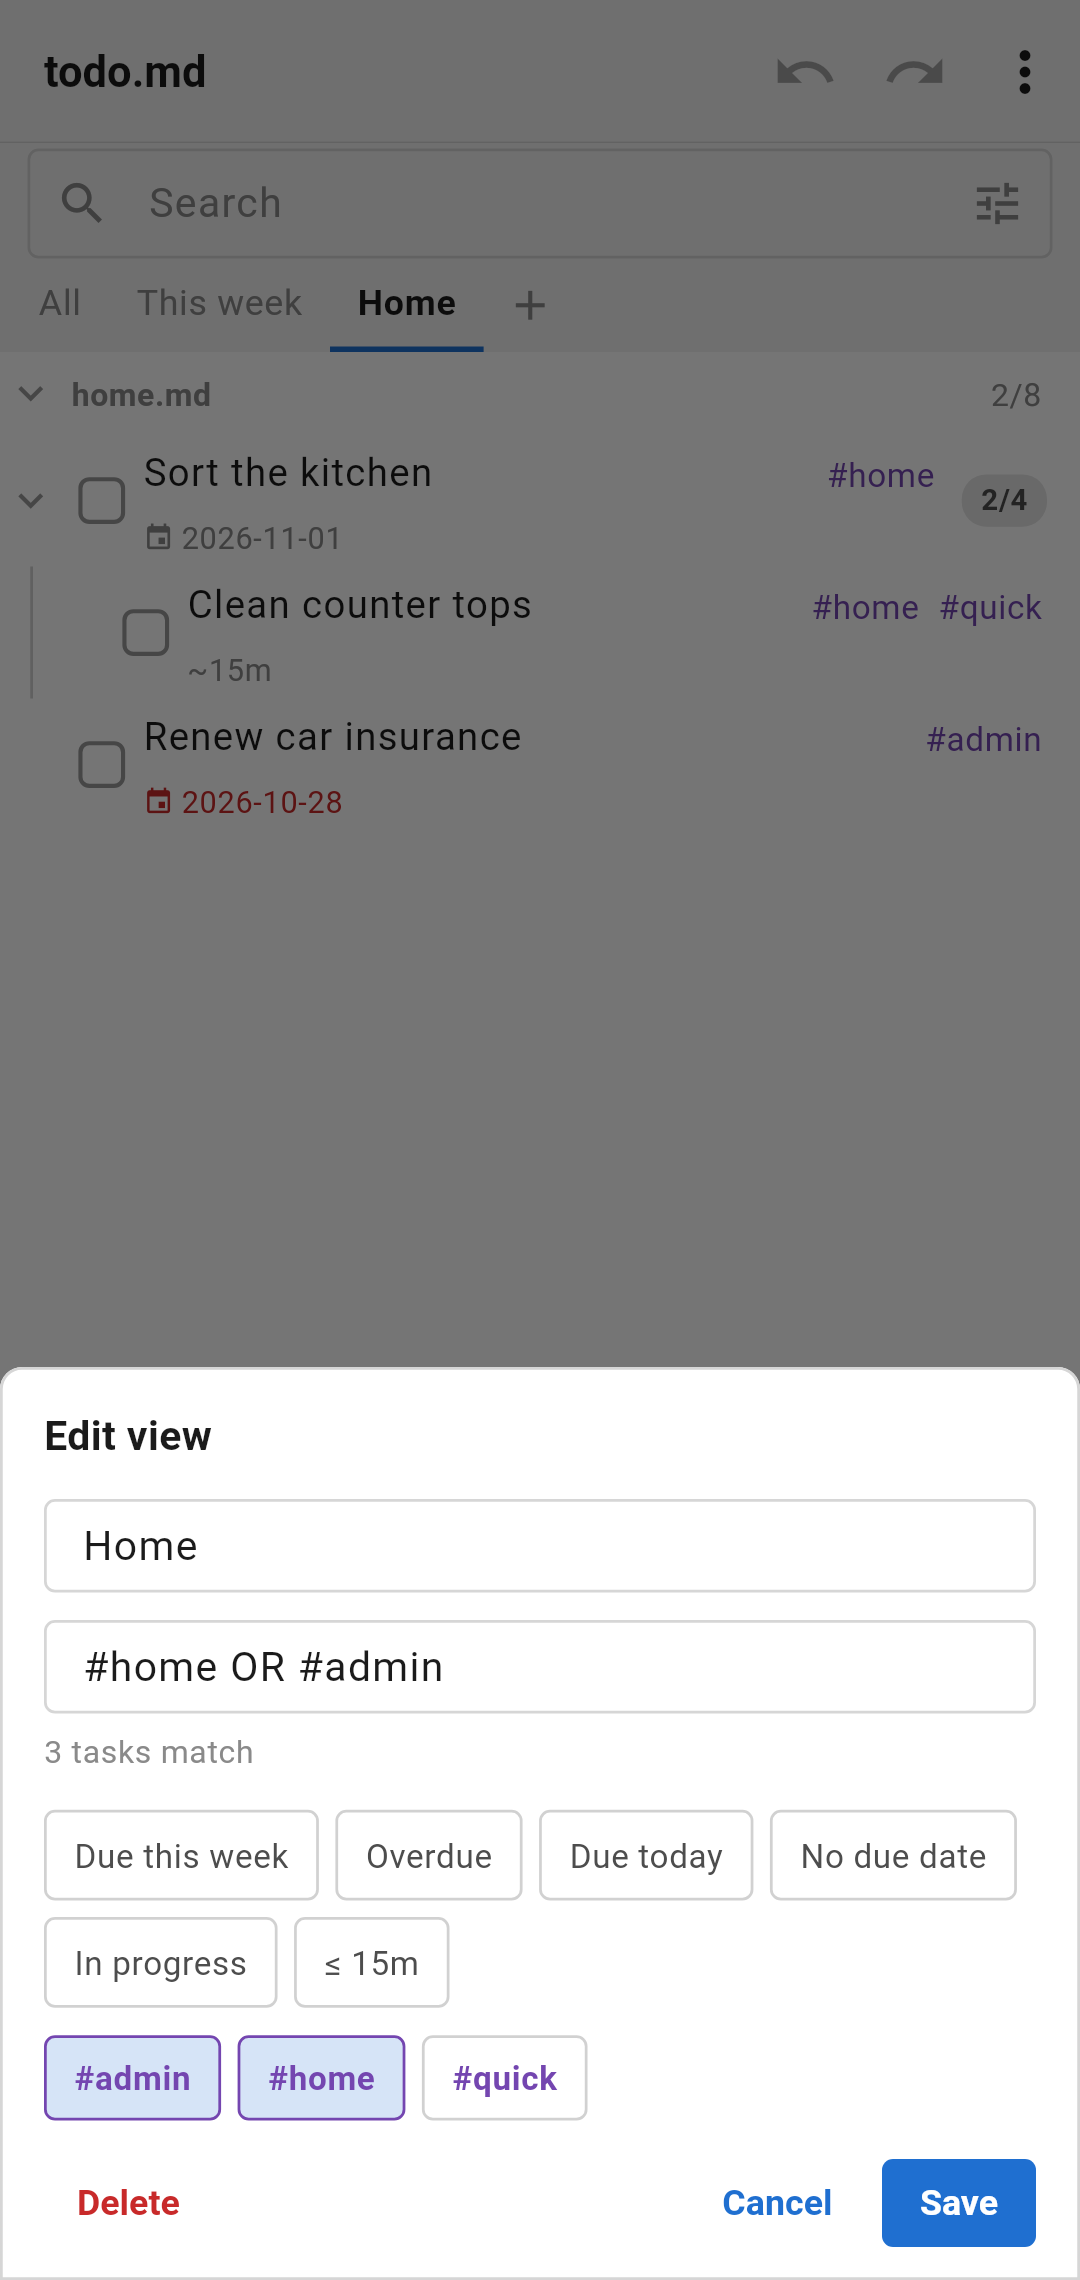
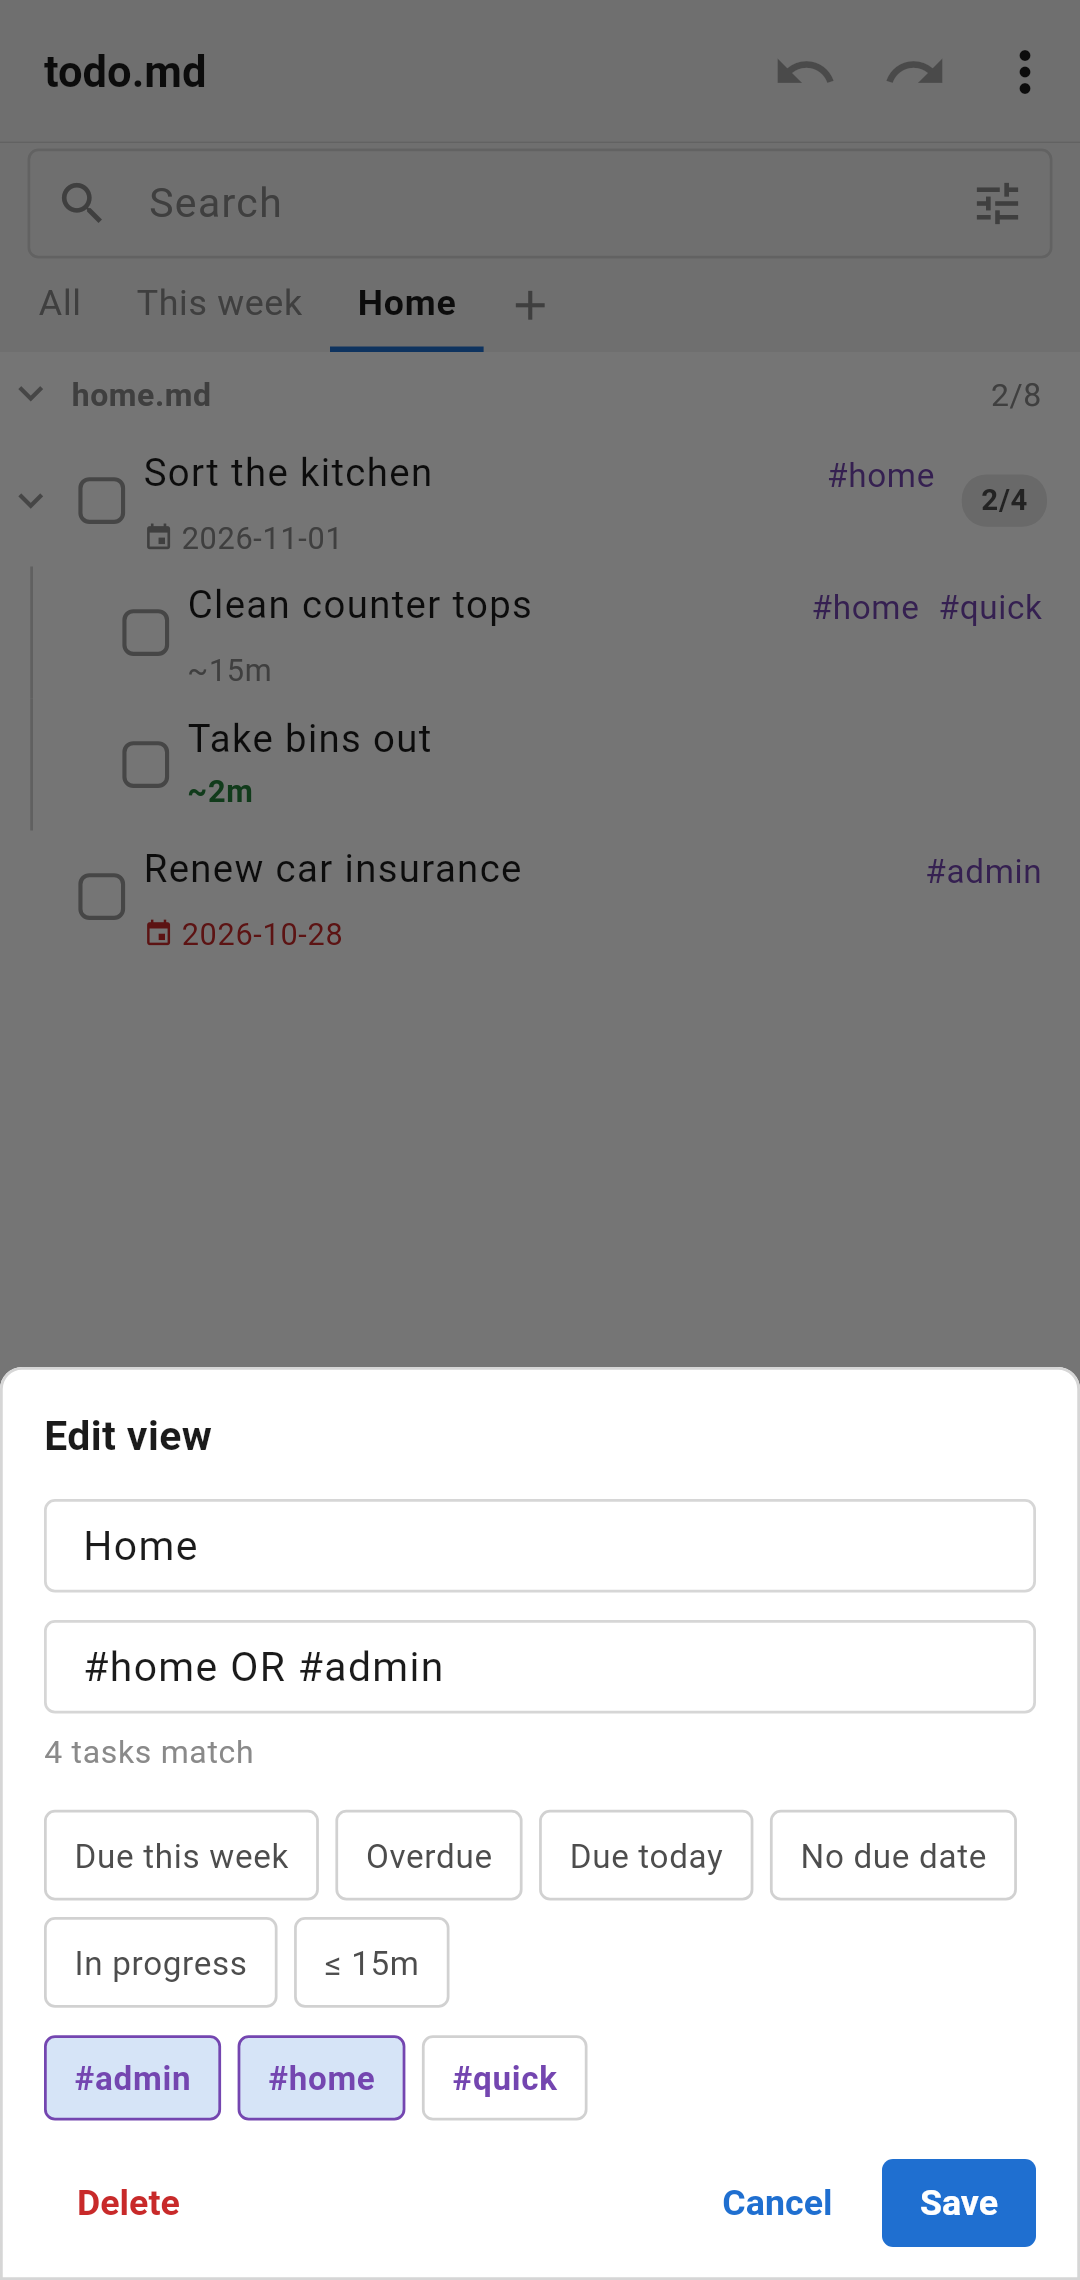
Fix subtasks not appearing in parent with certain tags

diff --git a/lib/core/models.dart b/lib/core/models.dart
@@ -127,8 +127,21 @@ abstract class FlatModel extends ChangeNotifier {
 
   // Appends t and its visible descendants (unless `hidden`, under a collapsed
   // node, where only visibility is computed). Returns whether t is visible:
-  // it matches or has a visible descendant.
-  bool _appendTask(Task t, int g, int depth, bool hidden, List<ListRow> out) {
+  // it matches, sits under a task that matches (`under`; its state must still
+  // be shown), or has a visible descendant. So a view of #house shows the
+  // subtasks of a #house task even though they don't carry the tag.
+  //
+  // `inView`: an ancestor matches the view's filter, which then holds for t
+  // too, so the search box can find untagged subtasks within a #house view.
+  bool _appendTask(
+    Task t,
+    int g,
+    int depth,
+    bool hidden,
+    List<ListRow> out, [
+    bool under = false,
+    bool inView = false,
+  ]) {
     if (_all) {
       if (hidden) return true;
       final kids = t.children.isNotEmpty;
@@ -144,11 +157,13 @@ abstract class FlatModel extends ChangeNotifier {
     final mark = out.length;
     if (!hidden) out.add(ListRow(t, g, depth, false, true));
     final open = t.children.isEmpty || !_isCollapsed(taskKey(t));
+    final viewed = inView || filter.viewMatches(t);
+    final shown = (under && filter.stateVisible(t.state)) || filter.matches(t, inView: viewed);
     var anyChild = false;
     for (final c in t.children) {
-      anyChild |= _appendTask(c, g, depth + 1, hidden || !open, out);
+      anyChild |= _appendTask(c, g, depth + 1, hidden || !open, out, shown, viewed);
     }
-    if (!anyChild && !filter.matches(t)) {
+    if (!anyChild && !shown) {
       if (!hidden) out.length = mark;
       return false;
     }

diff --git a/test/store_test.dart b/test/store_test.dart
@@ -185,6 +185,48 @@ void main() {
     s.dispose();
   });
 
+  test('list model: subtasks of a matching task show (their state still filtered)', () async {
+    write(
+      't.md',
+      '- [ ] Get building insurance #house\n'
+          '  - [ ] get quotes\n'
+          '    - [ ] ring brokers\n'
+          '  - [x] find policy number\n'
+          '  - [ ] pay #money\n'
+          '- [ ] other\n'
+          '  - [ ] sub\n',
+    );
+    final s = TaskStore();
+    s.watching = false;
+    await s.setRoots([tmp.path]);
+    final m = TaskListModel(s);
+    m.filter.states = 0x3; // done hidden
+    List<String?> shown() => [for (final r in m.rows) r.task?.text];
+
+    m.filter.setView('#house');
+    m.refilter();
+    expect(shown(), [null, 'Get building insurance', 'get quotes', 'ring brokers', 'pay']);
+    expect(m.rows[1].hasChildren, isTrue);
+    // The search box narrows within the view (finding untagged subtasks); a
+    // match still brings its subtasks.
+    m.filter.setText('quotes');
+    m.refilter();
+    expect(shown(), [null, 'Get building insurance', 'get quotes', 'ring brokers']);
+    // A match deeper down keeps its ancestors but not their other subtasks.
+    m.filter.setView('');
+    m.filter.setText('#money');
+    m.refilter();
+    expect(shown(), [null, 'Get building insurance', 'pay']);
+    // Done ones show once the Done toggle is on.
+    m.filter.setText('');
+    m.filter.setView('#house');
+    m.filter.states = 0xF;
+    m.refilter();
+    expect(shown(), contains('find policy number'));
+    m.dispose();
+    s.dispose();
+  });
+
   test('agenda: days, nesting under same-day ancestor, empty days, labels', () async {
     write(
       't.md',

diff --git a/lib/ui/home.dart b/lib/ui/home.dart
@@ -325,13 +325,21 @@ class HomePageState extends State<HomePage> with WidgetsBindingObserver {
   }
 
   int _countMatching(String filter) {
+    // As the list shows it: a task is in the view if it or an ancestor matches.
     final f = TaskFilter()
       ..states = list.filter.states
-      ..setText(filter);
+      ..setView(filter);
+    bool ancestorIn(Task t) {
+      for (var a = t.parent; a != null; a = a.parent) {
+        if (f.viewMatches(a)) return true;
+      }
+      return false;
+    }
+
     var n = 0;
     for (final file in store.files) {
       for (final t in file.tasks) {
-        if (f.matches(t)) n++;
+        if (f.matches(t, inView: ancestorIn(t))) n++;
       }
     }
     return n;
@@ -983,7 +991,6 @@ class HomePageState extends State<HomePage> with WidgetsBindingObserver {
           onTapTask: _openTask,
           onToggle: toggleTask,
           onTag: filterTag,
-          onRefresh: store.refresh,
           empty: store.loading ? const SizedBox() : empty('No tasks yet. Tap + to add one.'),
         );
       case 1:
@@ -997,7 +1004,6 @@ class HomePageState extends State<HomePage> with WidgetsBindingObserver {
           onTapTask: _openTask,
           onToggle: toggleTask,
           onTag: filterTag,
-          onRefresh: store.refresh,
           empty: store.loading ? const SizedBox() : empty('Nothing due. Tasks with !YYYY-MM-DD show here.'),
         );
       default:

diff --git a/lib/ui/task_list.dart b/lib/ui/task_list.dart
@@ -40,7 +40,6 @@ class TaskListView extends StatefulWidget {
     required this.onTapTask,
     required this.onToggle,
     this.onHeaderLongPress,
-    this.onRefresh,
     this.controller,
     this.allowSelection = true,
     this.empty,
@@ -58,7 +57,6 @@ class TaskListView extends StatefulWidget {
   final ValueChanged<Task> onToggle;
   final ValueChanged<String>? onTag; // tapping a tag
   final ValueChanged<int>? onHeaderLongPress; // row index
-  final Future<void> Function()? onRefresh;
   final ScrollController? controller;
   final bool allowSelection;
   final Widget? empty;
@@ -226,7 +224,7 @@ class _TaskListViewState extends State<TaskListView> {
               child: SizedBox(height: c.maxHeight, child: widget.empty),
             ),
           );
-          return widget.onRefresh == null ? child : RefreshIndicator(onRefresh: widget.onRefresh!, child: child);
+          return child;
         }
         Widget list = CustomScrollView(
           key: _listKey,
@@ -247,7 +245,6 @@ class _TaskListViewState extends State<TaskListView> {
           onLongPressCancel: _onLongPressEnd,
           child: list,
         );
-        if (widget.onRefresh != null) list = RefreshIndicator(onRefresh: widget.onRefresh!, child: list);
         return list;
       },
     );

diff --git a/test/app_test.dart b/test/app_test.dart
@@ -249,6 +249,15 @@ void main() {
     await tester.pumpAndSettle();
     expect(contents(), initial);
     expect(find.byKey(const ValueKey('due-Tomorrow')), findsNothing); // no due picker
+    // And no pull-to-refresh: dragging down at the top does nothing.
+    final g = await tester.startGesture(tester.getCenter(rowText('a')));
+    for (var i = 0; i < 10; i++) {
+      await g.moveBy(const Offset(0, 25));
+      await tester.pump(const Duration(milliseconds: 16));
+    }
+    expect(find.byType(RefreshProgressIndicator), findsNothing);
+    await g.up();
+    await tester.pumpAndSettle();
   });
 
   testWidgets('search box, and the filter sheet\'s states and ETA preset, narrow the list', (tester) async {
@@ -501,7 +510,7 @@ void main() {
     await g.up();
     await tester.pumpAndSettle();
     expect(home.view?.name, 'Media');
-    // A sideways swipe that drifts down a little is still a swipe, not a pull to refresh.
+    // A sideways swipe that drifts down a little is still a swipe.
     await tester.timedDrag(rowText('song'), const Offset(-300, 60), const Duration(milliseconds: 900));
     await tester.pumpAndSettle();
     expect(home.view?.name, 'Week');

diff --git a/lib/ui/help_page.dart b/lib/ui/help_page.dart
@@ -16,7 +16,7 @@ const _sections = <(IconData, String, List<String>)>[
           '`[x]` done,  `[-]` cancelled.',
       'Indent a task under another to make it a subtask. A parent shows how many of its subtasks are done, e.g. `2/4`.',
       'Edit your notes in any app (Obsidian, Markor, a sync tool …). Changes show up here when you come back, '
-          'or pull the list down to refresh.',
+          'or straight away while the app is open. ⋮ → Reload reads everything again.',
     ],
   ),
   (
@@ -64,7 +64,8 @@ const _sections = <(IconData, String, List<String>)>[
     Icons.search,
     'Searching and filtering',
     [
-      'Type in the search box to show only matching tasks. Several words must all match.',
+      'Type in the search box to show only matching tasks. Several words must all match. A task that matches '
+          'brings its subtasks along, and its parents stay for context.',
       'Special terms filter by tag, due date, estimate or state, e.g. `#home`,  `due:today`,  `~<=15m`,  `is:doing`,  '
           '`done:today`. '
           'Put `OR` between terms for "any of these". The full list, with examples you can tap to try, is under '

diff --git a/lib/core/filter.dart b/lib/core/filter.dart
@@ -255,13 +255,18 @@ class TaskFilter {
   bool get _hasDone => _search.any((c) => c.doneWithin > 0) || _view.any((c) => c.doneWithin > 0);
   bool _done = false; // cached _hasDone
 
-  bool matches(Task t) {
+  /// The view's filter alone holds for [t] (true when there's no view).
+  bool viewMatches(Task t) => _any(_view, t, _today);
+
+  /// [inView]: an ancestor matches the view, so [t] is in it too (a #house
+  /// task's subtasks belong to the #house view without the tag).
+  bool matches(Task t, {bool inView = false}) {
     final visible = states & stateBit(t.state) != 0;
     if (!visible && !_done) return false;
     for (final c in _presetConds) {
       if (!c.holds(t.eta)) return false;
     }
-    if (!_any(_view, t, _today) || !_any(_search, t, _today)) return false;
+    if ((!inView && !_any(_view, t, _today)) || !_any(_search, t, _today)) return false;
     return visible || _anyDone(_search, t, _today) || _anyDone(_view, t, _today);
   }
 }

diff --git a/lib/ui/views.dart b/lib/ui/views.dart
@@ -221,8 +221,9 @@ class _ViewSwiperState extends State<ViewSwiper> with SingleTickerProviderStateM
 /// A horizontal drag that wins at the usual slop, but only while the finger
 /// has gone further across than up or down. The list's vertical scroll uses
 /// the same slop, so whichever direction the finger mostly goes wins: a
-/// sideways swipe with some drift isn't taken for a scroll (or a pull to
-/// refresh), and a scroll with some drift isn't taken for a swipe.
+/// sideways swipe with some drift isn't taken for a scroll, and a scroll with
+/// some drift isn't taken for a swipe. (There's no pull-to-refresh to catch
+/// a swipe that starts slightly downward at the top.)
 class _SwipeRecognizer extends HorizontalDragGestureRecognizer {
   _SwipeRecognizer({super.debugOwner});
 

diff --git a/lib/core/store.dart b/lib/core/store.dart
@@ -287,7 +287,7 @@ class TaskStore extends ChangeNotifier {
   Future<void> reload() => setRoots(_roots);
 
   /// Incremental: re-reads only files whose mtime or size changed, picks up
-  /// new and removed files. Used on app resume and pull-to-refresh.
+  /// new and removed files. Used on app resume.
   Future<void> refresh() async {
     if (_loading || _roots.isEmpty) return;
     final gen = _generation;

diff --git a/CLAUDE.md b/CLAUDE.md
@@ -12,7 +12,7 @@ app's own folder). Linux desktop is enabled for development only.
 ## Build / run / test
 
 ```sh
-flutter test                          # core, store/models, widget tests (50)
+flutter test                          # core, store/models, widget tests (51)
 flutter analyze
 flutter test benchmark/               # 200k tasks / 5,000 files, JIT timings
 BENCH_DIR=~/notes flutter test benchmark/
@@ -70,7 +70,8 @@ search box is debounced 150 ms.
 - **Watching**: Dart can't watch recursively on Linux/Android, so each directory
   gets its own watch (max 4000), as on the desktop. Watches are dropped when the
   app is paused and `refresh()` (mtime/size diff, isolate scan) catches up on
-  resume. Pull-to-refresh calls it too.
+  resume. **No pull-to-refresh** (the user removed it: horizontal view swipes kept
+  catching on it); ⋮ → Reload reloads everything.
 - **Isolates**: `Isolate.run` closures live in top-level helpers so they capture
   only their arguments (a closure shares its context with siblings, which could
   drag the store along and fail to send).
@@ -142,7 +143,7 @@ ancestors (`actions.bulletList`). Clears the selection.
   SharedPreferences as JSON (`views/list`, active one in `views/current`). They're
   tabs along the top of Tasks/Agenda (`ViewStrip`, under the search box: All, each view, +; shown once a
   view exists, else ⋮ → New view…). Tap = switch, tap the active one or long-press =
-  edit; swiping the list left/right steps through them (`ViewSwiper`: one model; its recognizer wins at the normal slop only while the drag is more across than down, so neither a swipe nor a scroll is mistaken for the other (or for pull-to-refresh). Note a drag recognizer's onCancel also fires for every gesture it *lost*: the swiper ignores it unless dragging, else each scroll replayed the last swipe's offset;
+  edit; swiping the list left/right steps through them (`ViewSwiper`: one model; its recognizer wins at the normal slop only while the drag is more across than down, so neither a swipe nor a scroll is mistaken for the other. Note a drag recognizer's onCancel also fires for every gesture it *lost*: the swiper ignores it unless dragging, else each scroll replayed the last swipe's offset;
   the content follows the finger and the next slides in; off while selecting).
   New view is prefilled with the search box if it has text (that search is then
   cleared). **Adding in a view**: + starts the task with the tags of the view's
@@ -151,6 +152,11 @@ ancestors (`actions.bulletList`). Clears the selection.
   line says so. The editor has quick terms (due:week, due:overdue …) and tag pills
   that toggle a term in or out (a tag after a tag is joined with OR), and a live
   count of matching tasks (state toggles apply).
+- **Subtasks come along**: a task under a task that matches shows too (its state
+  toggle still applies; `_appendTask`'s `under`, ported to the desktop). And a view
+  holds for every task under one it matches (`inView`, `TaskFilter.matches(inView:)`,
+  also the editor's count), so a `#house` view lists the untagged subtasks of a
+  `#house` task and the search box can find them within it.
 - The active view's filter goes in `TaskFilter.setView` for **Tasks and Agenda** (not
   the calendar day list), ANDed with the search box, so search narrows within it.
   Picking a view from the Calendar tab switches to Tasks. Note `is:done` in a view
